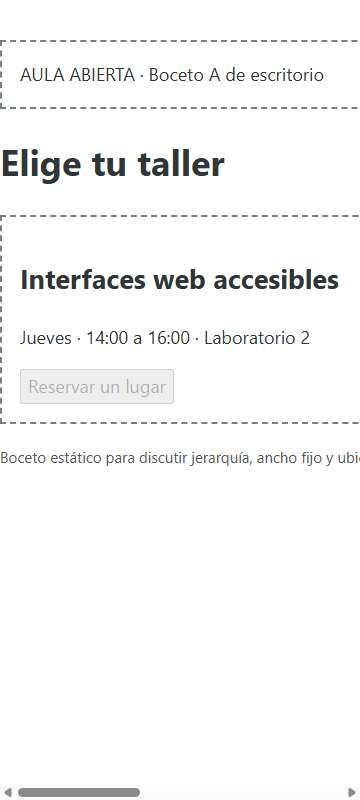
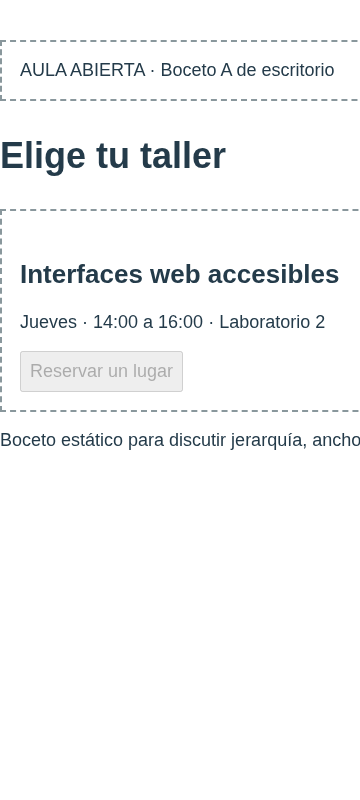
Agregando mi parte, gracias

diff --git a/docs/pruebas.md b/docs/pruebas.md
@@ -1,14 +1,46 @@
-# Verificación · Fase 1
+# Pruebas de Aula Abierta
 
-## Comprobaciones manuales reproducibles
+## Reproducción
 
-1. Abrir `src/index.html` en un navegador y activar el modo adaptable.
-2. Probar anchos de 360, 768 y 1366 px. Verificar que no hay desplazamiento horizontal. En la consola: `document.documentElement.scrollWidth <= document.documentElement.clientWidth` debe devolver `true`.
-3. A 360 px el panel de reserva aparece debajo del taller. A 768 y 1366 px aparece a su derecha.
-4. Recargar: estado Disponible, reservar habilitado, cancelar deshabilitado.
-5. Usar Tab hasta «Reservar un lugar» y Enter: estado Confirmada, reservar deshabilitado y foco visible sobre cancelar.
-6. Usar Espacio sobre cancelar: estado Cancelada y foco en reservar. Volver a reservar y cancelar para comprobar un segundo ciclo.
-7. Inspeccionar la región de estado y comprobar que su texto cambia sin retirar `role="status"`.
-8. Con un lector de pantalla, comprobar el anuncio del mensaje actualizado. Esta comprobación requiere una revisión humana y no se da por realizada con una prueba del DOM.
+Desde la raíz del repositorio, ejecutar `npm ci`, `npx playwright install chromium` y `npm test`. El script usa Chromium, genera las capturas en `capturas/` y actualiza `docs/resultados-pruebas.json`. No requiere iniciar Chrome por separado. La medición se hizo con Chromium headless y viewport de escritorio ajustado a cada ancho.
 
-Las mediciones automatizadas disponibles se guardan en `resultados-pruebas.json`. No sustituyen la revisión entre pares ni una evaluación completa con lector de pantalla.
+## Resultados técnicos automatizados
+
+| Viewport (px) | `innerWidth` (px) | `scrollWidth` (px) | Desborde (px) | Distribución | Resultado |
+| ---: | ---: | ---: | ---: | --- | --- |
+| 320 | 320 | 320 | 0 | Una columna | Pasa |
+| 360 | 360 | 360 | 0 | Una columna | Pasa |
+| 768 | 768 | 768 | 0 | Dos columnas | Pasa |
+| 1366 | 1366 | 1366 | 0 | Dos columnas | Pasa |
+
+En el boceto A a 360 px, `scrollWidth` fue 960 px y «Mi reserva» comenzó a 600 px del borde izquierdo. En la versión B, el script comprobó dos ciclos de reserva y cancelación: Enter confirmó, Espacio canceló, el botón inactivo impidió duplicados y el foco pasó al botón disponible.
+
+## Checklist de revisión
+
+| Comprobación | Estado |
+| --- | --- |
+| Sin desplazamiento horizontal a 320, 360, 768 y 1366 px | Verificado automáticamente |
+| Una columna en móvil y dos desde 48rem | Verificado automáticamente |
+| Estado inicial y dos ciclos completos con teclado | Verificado automáticamente |
+| Bloqueo de reserva duplicada y traslado del foco | Verificado automáticamente |
+| Selector `:focus-visible` activo y botones de al menos 44 px | Verificado automáticamente; inspección visual de capturas pendiente |
+| Anuncio real con lector de pantalla | Pendiente de verificación humana |
+| Comprensión del estado con participantes | Pendiente de prueba con personas reales |
+
+## Prueba de usabilidad con participantes reales
+
+La tabla es un instrumento de registro, no un resultado. No hay participantes observados en este repositorio. Pedir a cinco compañeros que reserven, identifiquen la confirmación y cancelen a 360 px. Medir desde cada activación hasta que expresen correctamente el estado; anotar errores y solicitudes de ayuda. Repetir una vez con teclado. Criterio inicial: al menos cuatro de cinco identifican el estado correcto en menos de cinco segundos después de cada acción, sin ayuda.
+
+| Participante | Tiempo para identificar confirmación (s) | Tiempo para identificar cancelación (s) | Errores | Solicitudes de ayuda | Dificultades observadas |
+| --- | ---: | ---: | ---: | ---: | --- |
+| P1 | Pendiente | Pendiente | Pendiente | Pendiente | Pendiente |
+| P2 | Pendiente | Pendiente | Pendiente | Pendiente | Pendiente |
+| P3 | Pendiente | Pendiente | Pendiente | Pendiente | Pendiente |
+| P4 | Pendiente | Pendiente | Pendiente | Pendiente | Pendiente |
+| P5 | Pendiente | Pendiente | Pendiente | Pendiente | Pendiente |
+
+Registrar también dispositivo, navegador, modalidad de entrada y si hubo desplazamiento para encontrar «Mi reserva». Con un lector de pantalla, comprobar por separado que se anuncian la confirmación y la cancelación.
+
+## Conclusiones respaldadas por las mediciones
+
+El boceto fijo requiere 600 px más que la ventana móvil de 360 px y deja el resumen de reserva fuera de la vista inicial. La versión B elimina el desborde en los cuatro anchos medidos, conserva el orden de lectura y completa dos ciclos de reserva y cancelación con teclado. Estos resultados prueban funcionamiento y ajuste visual en el navegador utilizado. La facilidad para reconocer el estado y la calidad del anuncio con lector de pantalla permanecen abiertas hasta realizar las sesiones humanas indicadas.
